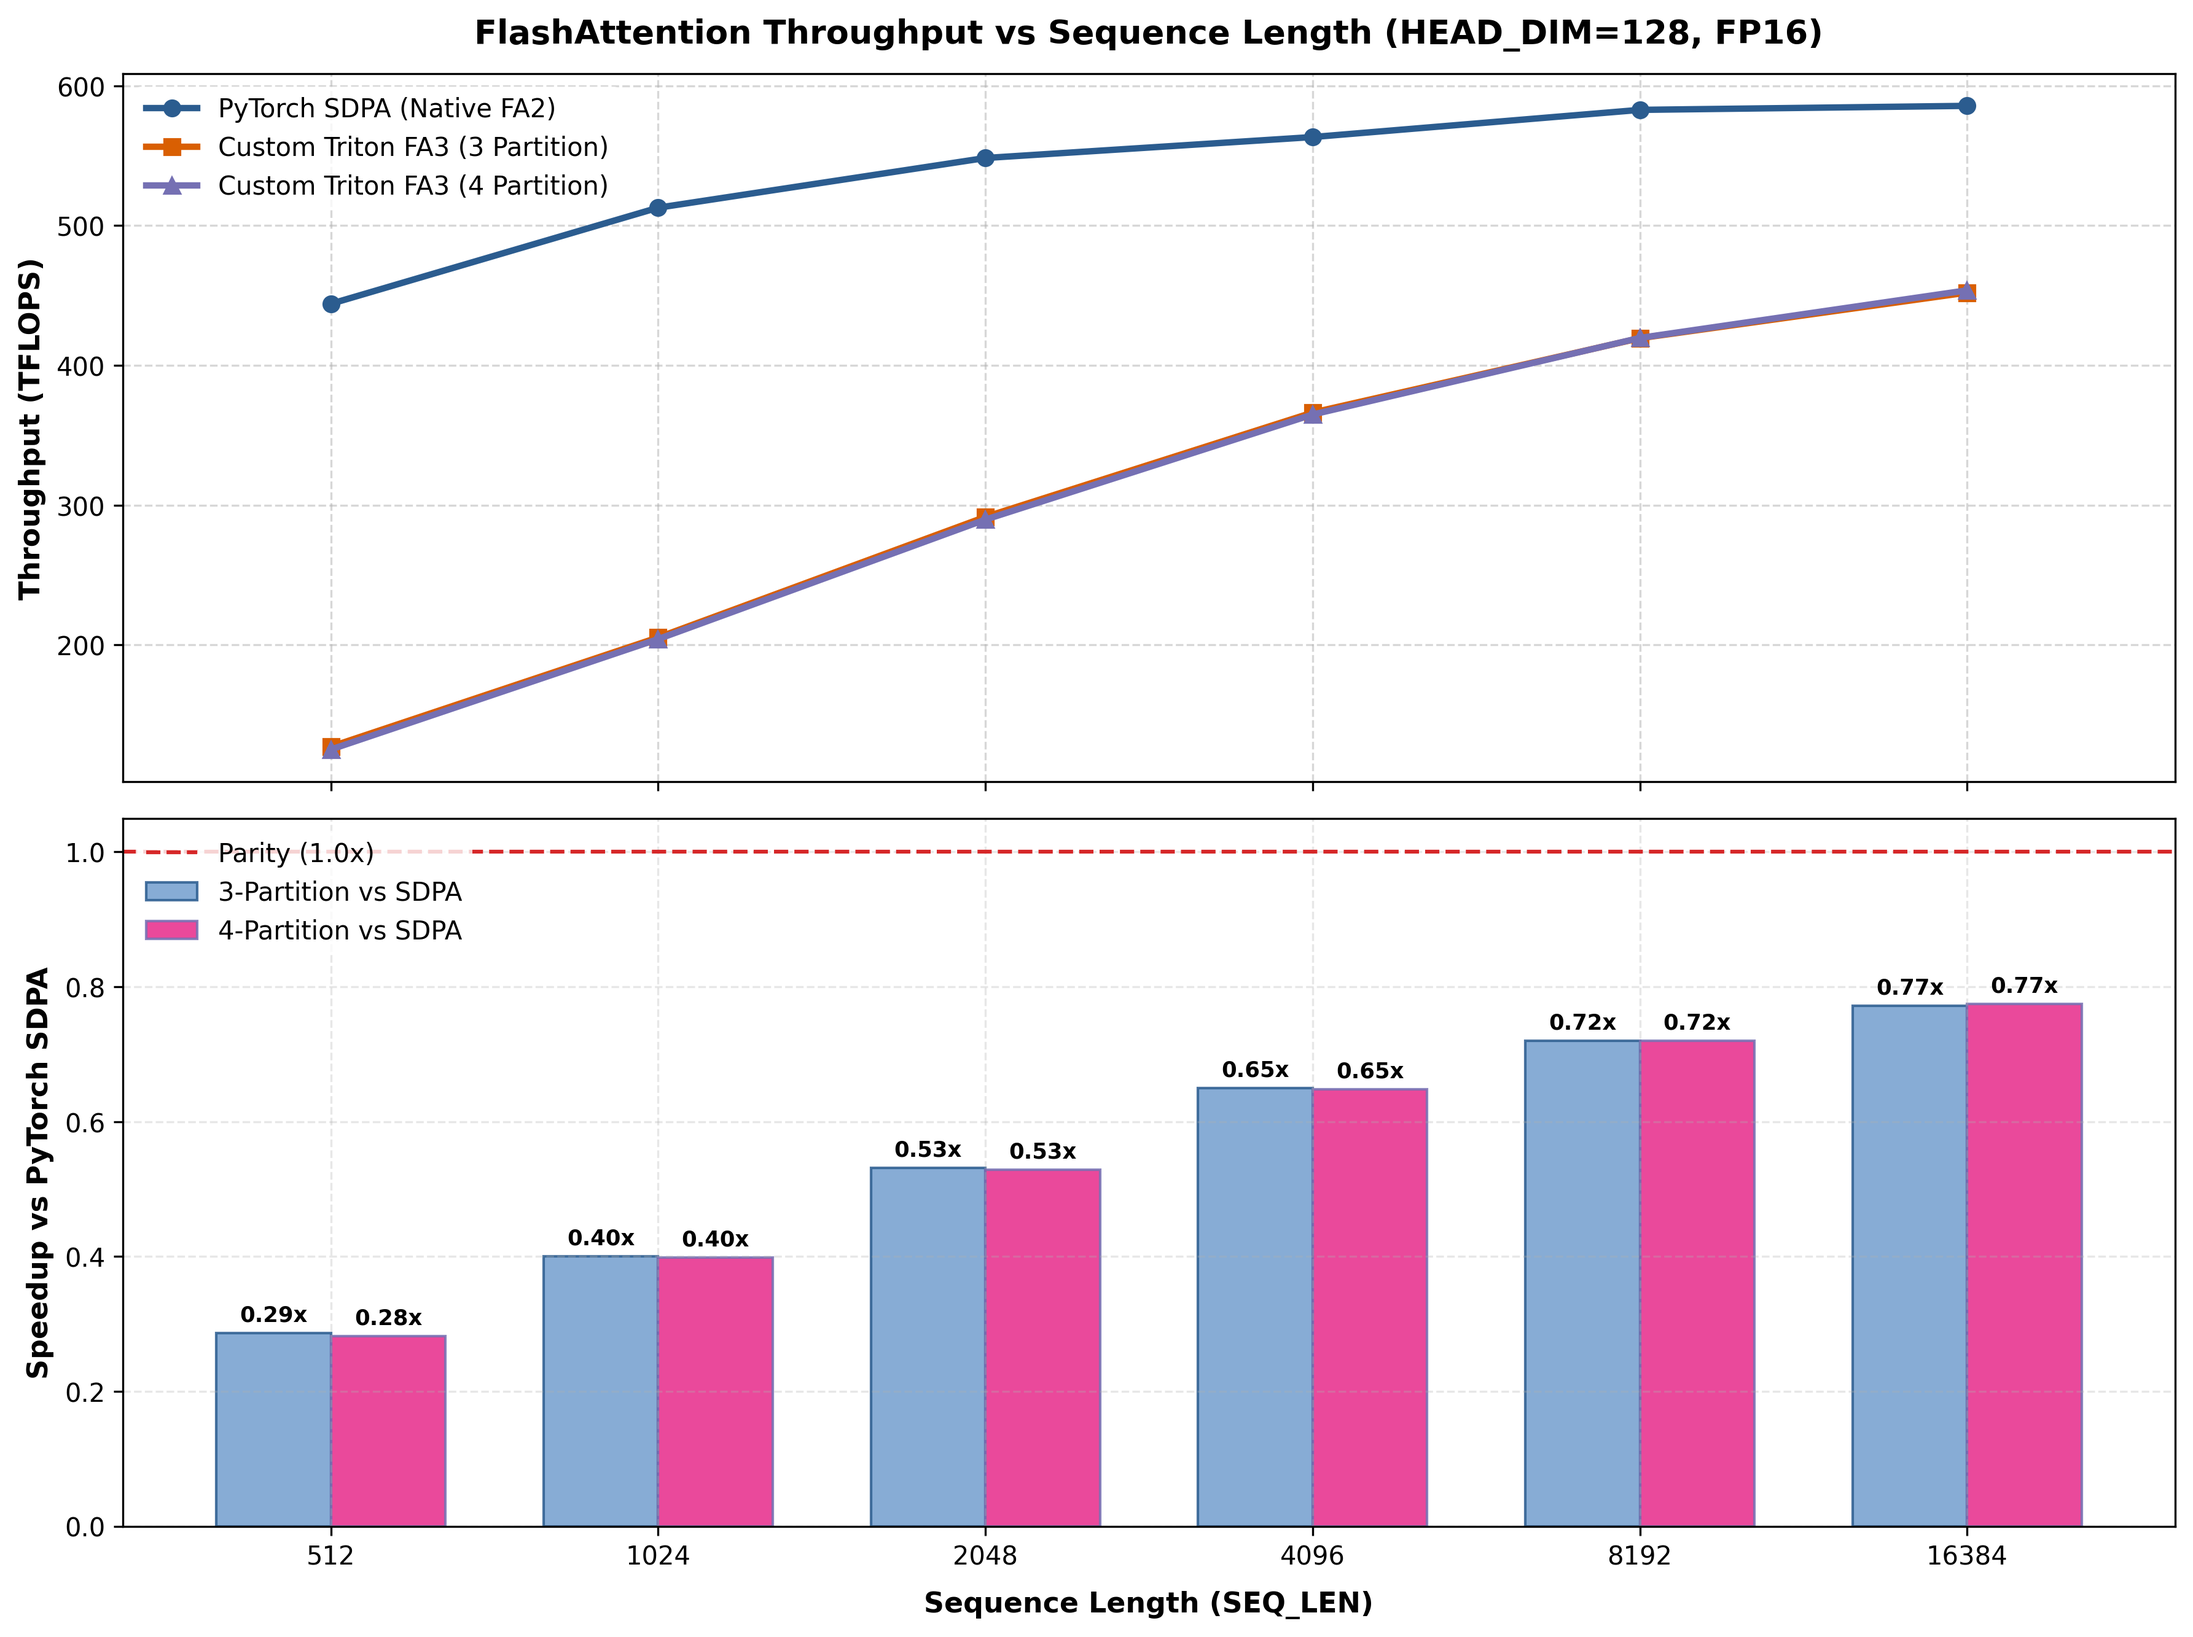
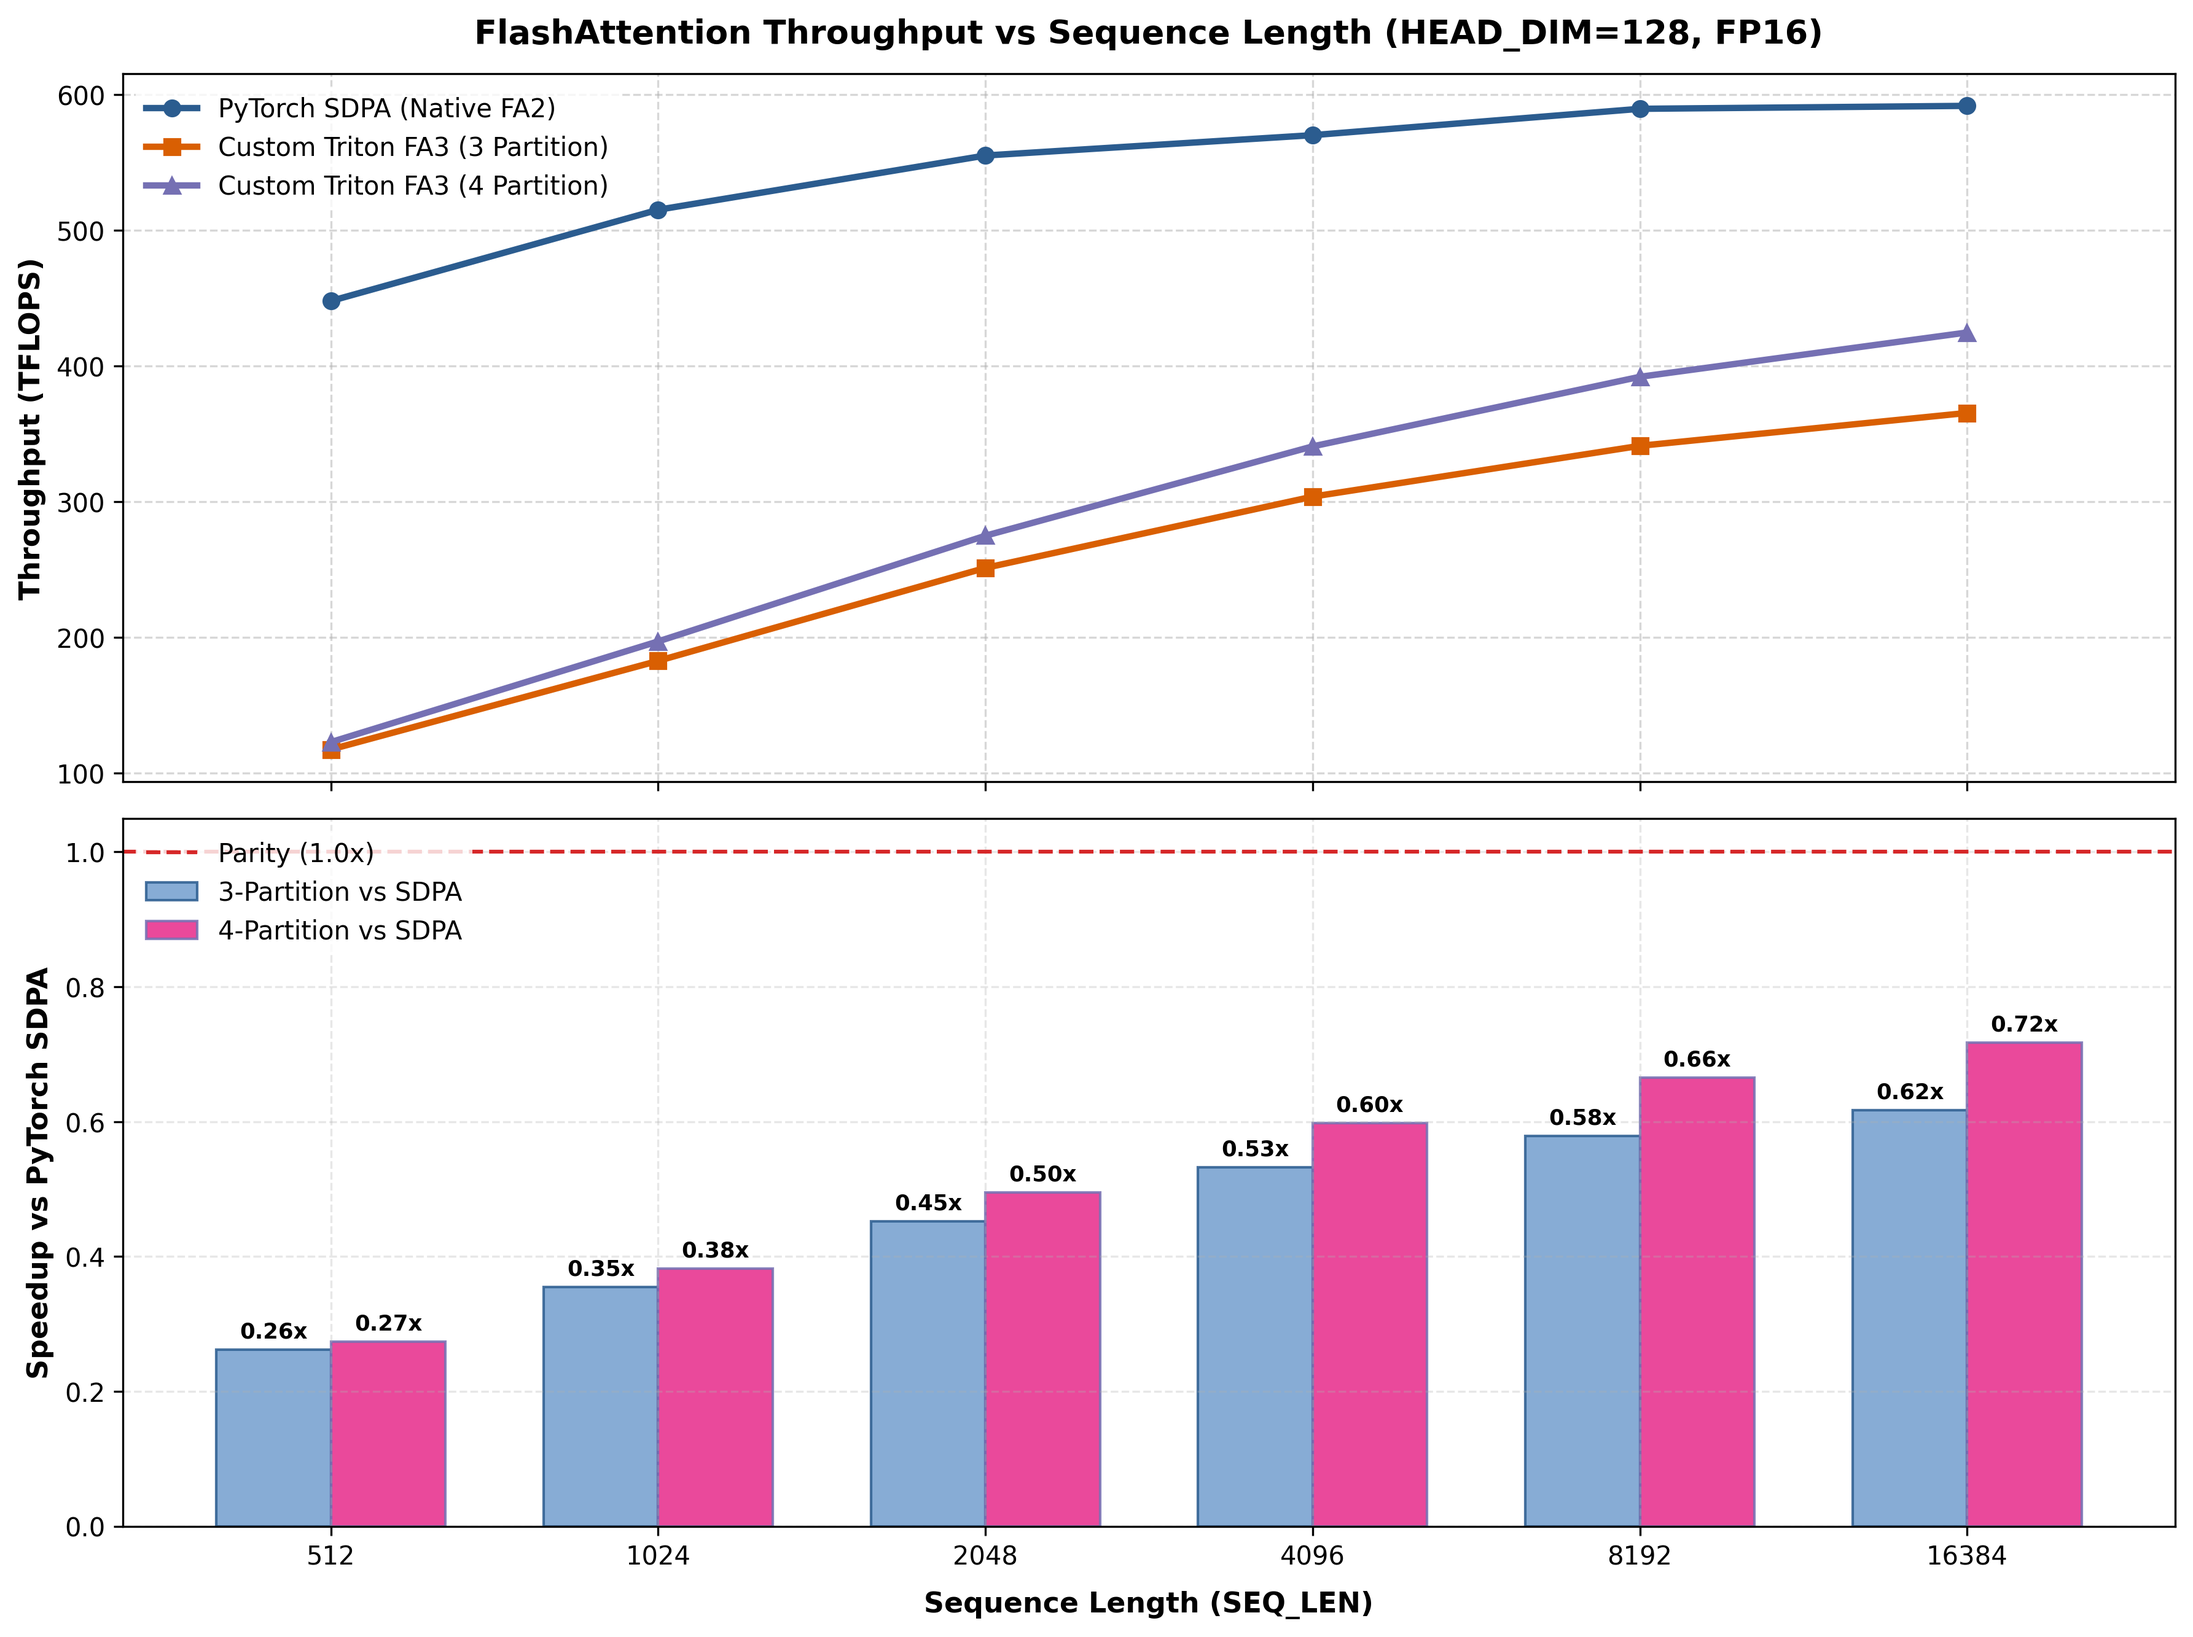
change back to the right config for optimal 3 partition pingpong config

diff --git a/attention/gluon_3_partition_pingpong.py b/attention/gluon_3_partition_pingpong.py
@@ -639,12 +639,12 @@ if __name__ == "__main__":
     parser = argparse.ArgumentParser(description="Run FlashAttention-3 Warp-Specialized Kernel")
     parser.add_argument("--tune", action="store_true", help="Enable Triton autotuning")
     
-    parser.add_argument("--bm", type=int, default=256, help="BLOCK_SIZE_M")
-    parser.add_argument("--bn", type=int, default=128, help="BLOCK_SIZE_N")
+    parser.add_argument("--bm", type=int, default=128, help="BLOCK_SIZE_M")
+    parser.add_argument("--bn", type=int, default=64, help="BLOCK_SIZE_N")
     parser.add_argument("--bk", type=int, default=128, help="BLOCK_SIZE_N")
     parser.add_argument("--warps", type=int, default=8, help="Number of compute warps")
-    parser.add_argument("--stages", type=int, default=2, help="Number of pipeline stages for KV")
-    parser.add_argument("--sf", type=int, default=4, help="SUBTILE_FACTOR")
+    parser.add_argument("--stages", type=int, default=3, help="Number of pipeline stages for KV")
+    parser.add_argument("--sf", type=int, default=8, help="SUBTILE_FACTOR")
     
     args = parser.parse_args()
 
